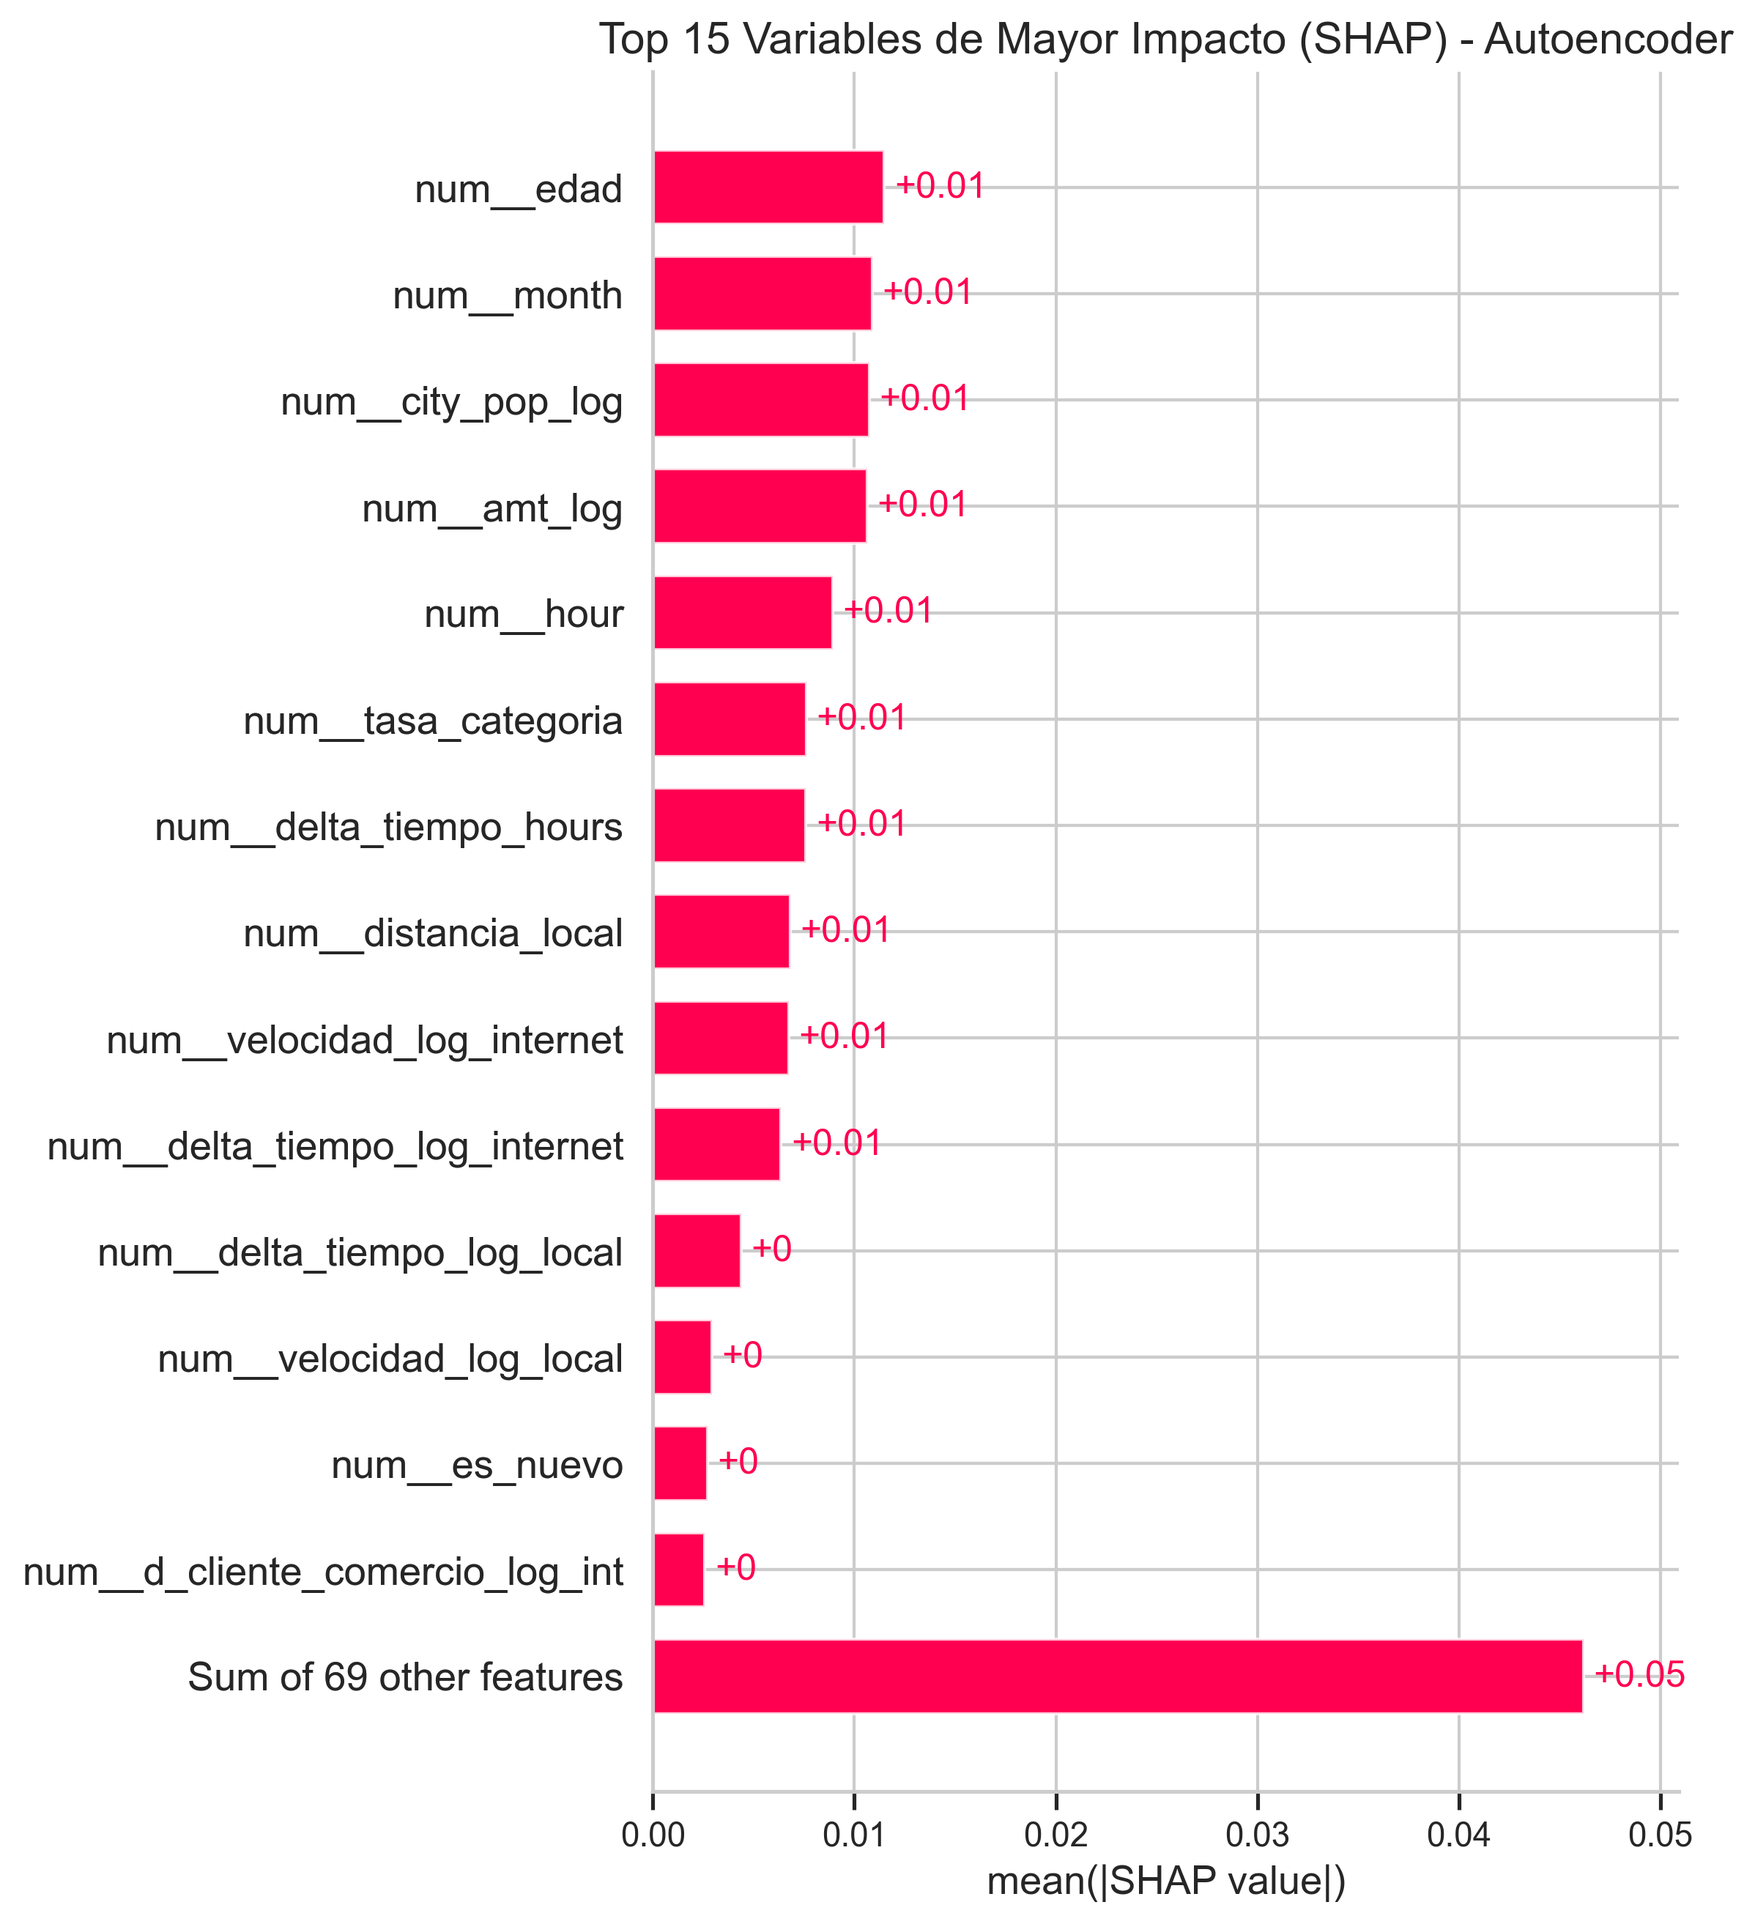
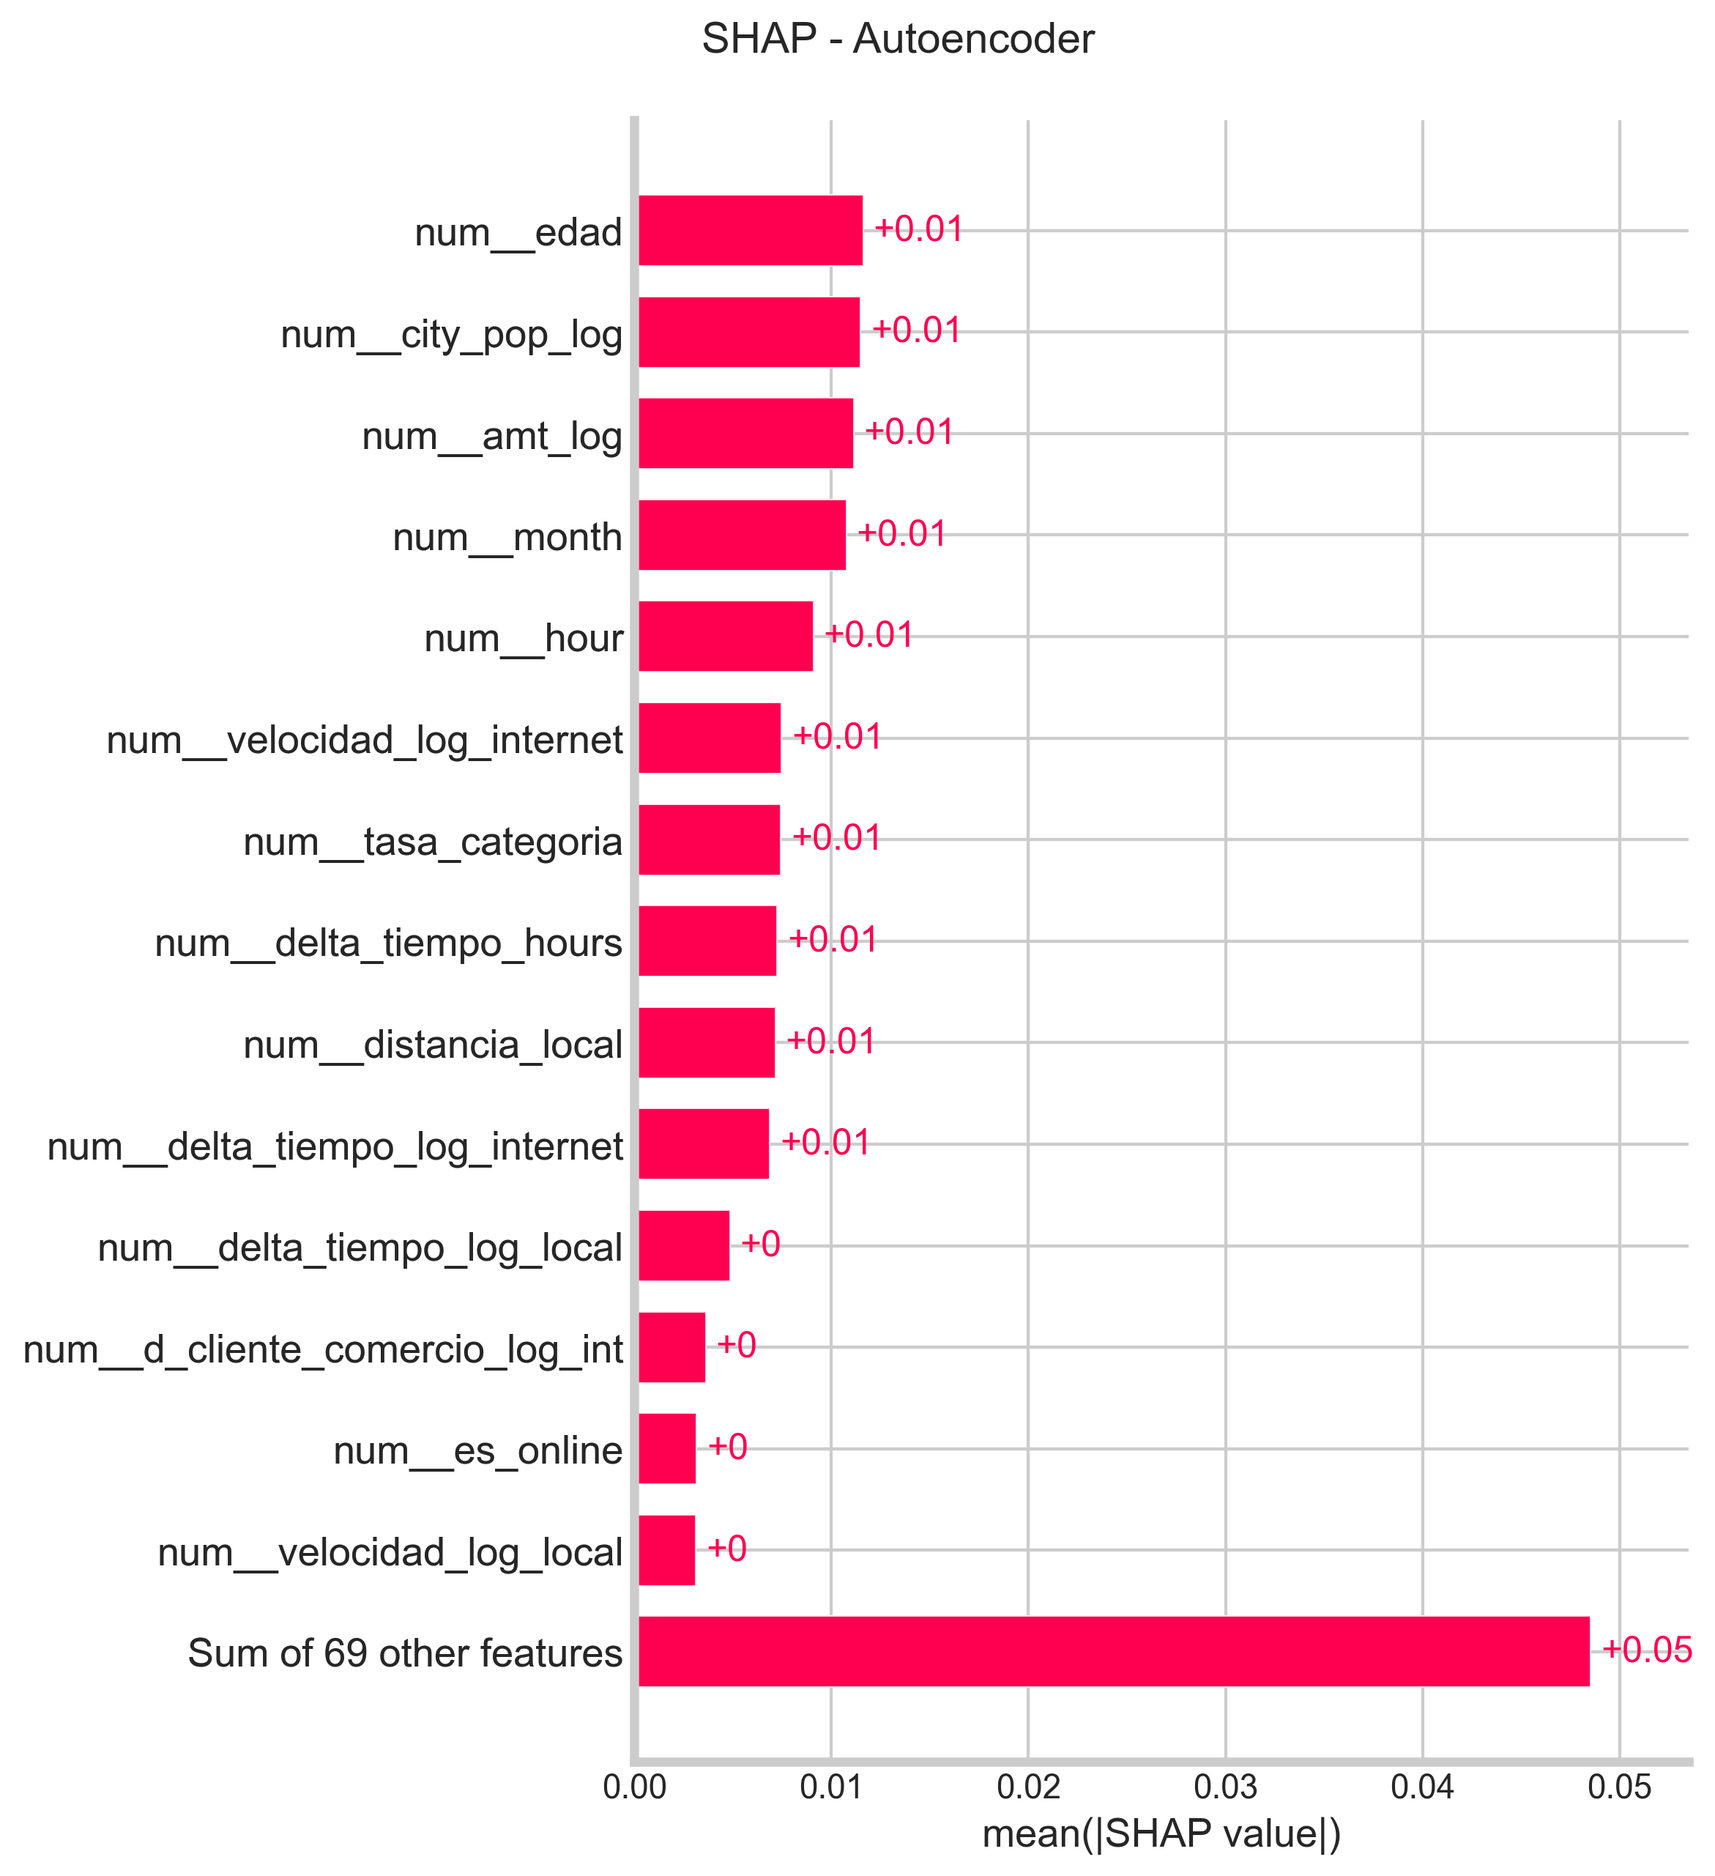
test de significancia

diff --git a/main.py b/main.py
@@ -1,5 +1,6 @@
 #Carga de funciones
 import gc
+
 from Subida_data import *
 from procesamiento_bases import *
 from EDA import *
@@ -137,13 +138,13 @@ for cat_var in cat_columns:
 
 #ANÁLISIS MULTIVARIADO
 
-boxplots_con_tabla(data, num_columns,target="is_fraud")
+#boxplots_con_tabla(data, num_columns,target="is_fraud")
 
-make_stacked_barplots(data, cat_columns, top=10)
-print("\n Matriz de correlación...")
-make_heat_map(data,num_columns)#multivariado
+#make_stacked_barplots(data, cat_columns, top=10)
+#print("\n Matriz de correlación...")
+#make_heat_map(data,num_columns)#multivariado
 
-graficar_temporalidad_fraude(data)
+#graficar_temporalidad_fraude(data)
 
 #print("\n" + "="*70)
 #print("EXPLORACIÓN PROFUNDA")
@@ -153,7 +154,7 @@ graficar_temporalidad_fraude(data)
 
 #make_scatter_plot(data,var_claves_num)#multivariado  #DA PROBLEMAS, LO ASOCIO A LA CANTIDAD DE OBSERVACIONES
 
-make_stacked_barplots(data, cat_columns, top=10)#multivariado #NO APORTA MUCHA INFORMACIÓN DADO EL DESBALANCE
+#make_stacked_barplots(data, cat_columns, top=10)#multivariado #NO APORTA MUCHA INFORMACIÓN DADO EL DESBALANCE
 
 
 # Creación de nuevas variables
@@ -415,11 +416,11 @@ num_nuevas=["delta_tiempo_log_local","delta_tiempo_log_internet","city_pop_log",
 cat_nueva=["es_nuevo","es_online","is_first_internet","is_first_local"]
 
 
-
+"""
 graficar_densidad(data,num_nuevas)
 for num_var in num_nuevas:
     make_boxplot(data,num_var)
-
+"""
 
 
 
@@ -767,19 +768,20 @@ df_umbrales = pd.DataFrame(resultados_umbrales)
 print("\n=== RESULTADOS DE OPTIMIZACIÓN DE UMBRALES ===")
 print(df_umbrales[['Modelo', 'Umbral_Optimo', 'F1_Score', 'FP', 'FN']])
 
-
+"""
 # --- FASE FINAL: INTERPRETABILIDAD COMPARATIVA ---
 nombres_columnas = preprocessor.get_feature_names_out()
 
-# Supervisados
-aplicar_shap_tesis_final(xgb_model_final, X_test_scaled, nombres_columnas, "XGBoost ")
-aplicar_shap_tesis_final(mlp_model, X_test_scaled, nombres_columnas, "MLP ", es_pytorch=True)
-aplicar_shap_tesis_final(logit_mod, X_test_scaled, nombres_columnas, "Regresión Logística")
-# No Supervisados / Anomalías
+# Modelos Supervisados
+aplicar_shap_tesis_final(xgb_model_final, X_test_scaled, nombres_columnas, "XGBoost")
+aplicar_shap_tesis_final(mlp_model, X_test_scaled, nombres_columnas, "MLP", es_pytorch=True)
+
+# CORREGIDO: Pasamos logit_res y activamos el flag de statsmodels
+aplicar_shap_tesis_final(logit_res, X_test_scaled, nombres_columnas, "Regresión Logística", es_statsmodels=True)
+
+# Modelos No Supervisados / Anomalías
 aplicar_shap_tesis_final(iso_forest, X_test_scaled, nombres_columnas, "Isolation Forest")
-
 aplicar_shap_tesis_final(ae_model, X_test_scaled, nombres_columnas, "Autoencoder", es_pytorch=True)
-
 # Ejecución de la interpretabilidad para LOF
 df_res_lofo = aplicar_lofo_tesis_final(
     X_train_scaled,
@@ -787,7 +789,7 @@ df_res_lofo = aplicar_lofo_tesis_final(
     nombres_columnas,
     nombre_modelo="LOF_Rango_20_50"
 )
-
+"""
 # --- EVALUACIÓN ECONÓMICA FINAL (TESIS) ---
 
 # 1. Cálculo de Frecuencia Dinámica con Suavizado (Smoothing)
@@ -871,7 +873,7 @@ print(df_final.to_string(index=False))
 # -------------------------------------------
 
 print("\n" + "="*60)
-print("📌 INICIANDO PRUEBA DE ROBUSTEZ INDEPENDIENTE: DICIEMBRE 2020")
+print(" INICIANDO PRUEBA DE ROBUSTEZ INDEPENDIENTE: DICIEMBRE 2020")
 print("="*60)
 
 # 1. Extracción y filtrado del universo exclusivo de diciembre de 2020
@@ -904,7 +906,7 @@ X_robust_tensor = torch.from_numpy(X_robust_scaled.copy()).float()
 # ------------------------------------------------------------------------------
 # PARTE A: EVALUACIÓN DE ROBUSTEZ TÉCNICA (Umbrales Fijos Obtenidos en Entrenamiento)
 # ------------------------------------------------------------------------------
-print("\n📈 [ROBUSTEZ TÉCNICA] Evaluación en Diciembre con Umbrales Previos:")
+print("\n [ROBUSTEZ TÉCNICA] Evaluación en Diciembre con Umbrales Previos:")
 
 resultados_robustez_tecnica = []
 
@@ -957,14 +959,14 @@ if 'ae_model' in locals():
 
 # Matriz resumen técnica del estrés temporal
 df_rob_tec = pd.DataFrame(resultados_robustez_tecnica)
-print("\n📊 [RESUMEN MATRICES - ROBUSTEZ DICIEMBRE 2020]:")
+print("\n [RESUMEN MATRICES - ROBUSTEZ DICIEMBRE 2020]:")
 print(df_rob_tec[['nombre', 'auc_roc', 'tp', 'fp', 'tn', 'fn']])
 
 
 # ------------------------------------------------------------------------------
 # PARTE B: EVALUACIÓN DE ROBUSTEZ FINANCIERA (Auditoría de Impacto Económico)
 # ------------------------------------------------------------------------------
-print("\n💰 [ROBUSTEZ FINANCIERA] Auditoría de Decisiones Estratégicas (F1 VS BAYES):")
+print("\n [ROBUSTEZ FINANCIERA] Auditoría de Decisiones Estratégicas (F1 VS BAYES):")
 
 info_modelos_robustez = {}
 if 'y_prob_logit_rob' in locals(): info_modelos_robustez['Regresión Logística'] = {'probabilidades': y_prob_logit_rob, 'umbral_f1': info_modelos['Regresión Logística']['umbral_f1']}
@@ -984,3 +986,62 @@ df_final_robustez = generar_matriz_comparativa_total(
 
 print(df_final_robustez.to_string(index=False))
 print("\n" + "="*60 + "\n")
+
+#-----------------------------------------------------
+#TEST DE ROBUSTEZ IMAN-DAVENPORT-->HOLM
+#-----------------------------------------------------
+print("\n" + "=" * 60)
+print("📊 GENERANDO MATRICES MENSUALES PARA IMAN-DAVENPORT")
+print("=" * 60)
+
+meses_test = test_df.loc[y_test.index, 'trans_date_trans_time'].dt.month.values
+meses_unicos = np.unique(meses_test)
+
+df_iman_auc = pd.DataFrame(index=[f"Mes_{m}" for m in meses_unicos])
+df_iman_ahorro = pd.DataFrame(index=[f"Mes_{m}" for m in meses_unicos])
+
+mult_lexis = 5.75
+costo_ca = 2.50
+
+for nombre_modelo, info in info_modelos.items():
+    lista_auc_mes = []
+    lista_ahorro_mes = []
+
+    for mes in meses_unicos:
+        mask = (meses_test == mes)
+
+        y_real_mes = y_test_values[mask]
+        amt_mes = amt_test_vector[mask]
+        clv_mes = clv_test_vector[mask]
+        y_prob_mes = info['probabilidades'][mask]
+
+        try:
+            auc_m = roc_auc_score(y_real_mes, y_prob_mes)
+        except:
+            auc_m = 0.5
+        lista_auc_mes.append(auc_m)
+
+        costo_fn_vector = amt_mes * mult_lexis
+        costo_fp_vector = costo_ca + clv_mes
+        costo_tp = costo_ca
+
+        thresholds_bayes = costo_fp_vector / (costo_fn_vector - costo_tp + costo_fp_vector)
+        y_pred_riesgo = (y_prob_mes > thresholds_bayes).astype(int)
+
+        tp = (y_real_mes == 1) & (y_pred_riesgo == 1)
+        fp = (y_real_mes == 0) & (y_pred_riesgo == 1)
+        fn = (y_real_mes == 1) & (y_pred_riesgo == 0)
+
+        costo_total = (tp.sum() * costo_tp) + (fp * costo_fp_vector).sum() + (fn * costo_fn_vector).sum()
+        costo_base = (y_real_mes * costo_fn_vector).sum()
+
+        ahorro_mes = costo_base - costo_total
+        lista_ahorro_mes.append(ahorro_mes)
+
+    df_iman_auc[nombre_modelo] = lista_auc_mes
+    df_iman_ahorro[nombre_modelo] = lista_ahorro_mes
+
+# LLAMADAS FINALES (Llamando a la función que ahora vive en estadisticas.py)
+ranks_auc, holm_auc = pipeline_iman_davenport_holm_puro(df_iman_auc, "AUC-ROC (Estructural)", buscar_maximo=True)
+ranks_ahorro, holm_ahorro = pipeline_iman_davenport_holm_puro(df_iman_ahorro, "Ahorro Financiero (Bayes)",
+                                                              buscar_maximo=True)

diff --git a/models.py b/models.py
@@ -3,6 +3,7 @@ import pandas as pd
 import numpy as np
 import torch.nn as nn
 from sklearn.linear_model import LogisticRegression
+import itertools
 from xgboost import XGBClassifier
 from sklearn.ensemble import IsolationForest
 from sklearn.neighbors import LocalOutlierFactor
@@ -11,6 +12,8 @@ import optuna
 from sklearn.model_selection import StratifiedKFold, cross_val_score
 import shap
 import matplotlib.pyplot as plt
+from sklearn.metrics import roc_auc_score
+from scipy.stats import f, rankdata, norm
 from sklearn.metrics import f1_score
 from torch.utils.data import DataLoader, TensorDataset
 import torch.nn.functional as F
@@ -163,7 +166,7 @@ def evaluar_modelo(nombre, y_real, y_prob, umbral=None):
 
 
 def aplicar_shap_tesis_final(model, X_data_numpy, feature_names, nombre_modelo="Modelo", es_pytorch=False,
-                             es_lof=False):
+                             es_lof=False, es_statsmodels=False):  # <--- Agregamos este parámetro nuevo
     print(f"\n" + "=" * 40)
     print(f"🧐 ANALIZANDO INTERPRETABILIDAD: {nombre_modelo}")
     print("=" * 40)
@@ -188,6 +191,16 @@ def aplicar_shap_tesis_final(model, X_data_numpy, feature_names, nombre_modelo="
             masker = shap.maskers.Independent(X_data_numpy, max_samples=100)
             explainer = shap.Explainer(predict_fn_torch, masker)
             shap_values = explainer(X_sample_np)
+
+        elif es_statsmodels:
+            def predict_fn_logit(x_np):
+                x_stat = np.column_stack([np.ones(x_np.shape[0]), x_np])
+                return model.predict(x_stat)
+
+            masker = shap.maskers.Independent(X_data_numpy, max_samples=100)
+            explainer = shap.Explainer(predict_fn_logit, masker)
+            shap_values = explainer(X_sample_np)
+
         elif es_lof:
             def predict_fn_lof(x_np):
                 return -model.score_samples(x_np)
@@ -208,31 +221,34 @@ def aplicar_shap_tesis_final(model, X_data_numpy, feature_names, nombre_modelo="
         else:
             vals = np.abs(shap_values).mean(0)
 
-        # Crear DataFrame con el 100% de las variables
+
         df_total = pd.DataFrame(list(zip(feature_names, vals)), columns=['Variable', 'Impacto_Medio_SHAP'])
         df_total = df_total.sort_values(by='Impacto_Medio_SHAP', ascending=False)
 
         print(f"\n📋 IMPACTO TOTAL DE VARIABLES (Orden descendente) - {nombre_modelo}:")
-        pd.set_option('display.max_rows', None)  # Para que PyCharm no esconda filas
+        pd.set_option('display.max_rows', None)
         print(df_total.to_string(index=False))
         pd.reset_option('display.max_rows')
 
-        # --- GENERACIÓN DEL GRÁFICO (SOLO TOP 15) ---
-        plt.figure(figsize=(12, 8),facecolor="white")
-        # Asignamos los nombres para el gráfico
+        # --- GENERACIÓN DEL GRÁFICO (SOLO TOP 15 CON CORRECCIÓN DE ALTURA) ---
+        plt.figure(figsize=(10, 11), facecolor="white")
         if hasattr(shap_values, "values"):
             shap_values.feature_names = list(feature_names)
 
-        # max_display=15 hace la magia de limpiar el gráfico automáticamente
         if hasattr(shap_values, "values") and len(shap_values.values.shape) == 3:
             shap.plots.bar(shap_values[:, :, 1], show=False, max_display=15)
         else:
             shap.plots.bar(shap_values, show=False, max_display=15)
+
         ax = plt.gca()
         ax.set_facecolor('white')
 
-        plt.title(f"Top 15 Variables de Mayor Impacto (SHAP) - {nombre_modelo}")
-        plt.tight_layout()
+
+        plt.subplots_adjust(left=0.35, top=0.90)
+
+
+        plt.gcf().suptitle(f"SHAP - {nombre_modelo}", fontsize=14, y=0.95)
+
         plt.savefig(
             f"shap_top15_{nombre_modelo.lower().replace(' ', '_')}.png",
             dpi=300,
@@ -433,3 +449,92 @@ def generar_matriz_comparativa_total(modelos_data, y_real, amt_test, clv_vector,
 
     return pd.DataFrame(comparativa)
 
+
+# ==============================================================================
+# 2. ALGORITMO CORE: TEST DE IMAN-DAVENPORT--HOML
+# ==============================================================================
+def pipeline_iman_davenport_holm_puro(df_performance, metrica_nombre, buscar_maximo=True):
+
+    matrix = df_performance.to_numpy()
+    N, k = matrix.shape
+    alpha_global = 0.05
+
+    print("\n" + "=" * 75)
+    print(f"🔬 PIPELINE ESTADÍSTICO PURO: {metrica_nombre.upper()}")
+    print("=" * 75)
+
+    if buscar_maximo:
+        rangos = np.array([rankdata(-row) for row in matrix])
+    else:
+        rangos = np.array([rankdata(row) for row in matrix])
+
+    promedio_rangos = np.mean(rangos, axis=0)
+
+    sum_cuadrados_rangos = np.sum(promedio_rangos ** 2)
+    estadistico_friedman = (12 * N / (k * (k + 1))) * (sum_cuadrados_rangos - (k * (k + 1) ** 2 / 4))
+
+    numerador = (N - 1) * estadistico_friedman
+    denominador = N * (k - 1) - estadistico_friedman
+    estadistico_iman = numerador / denominador
+
+    df1 = k - 1
+    df2 = (k - 1) * (N - 1)
+    p_valor_global = f.sf(estadistico_iman, df1, df2)
+
+    dict_rangos = {df_performance.columns[i]: promedio_rangos[i] for i in range(k)}
+    df_ranks = pd.DataFrame(list(dict_rangos.items()), columns=['Modelo', 'Rango_Promedio']).sort_values(
+        by='Rango_Promedio')
+
+    print(f"\n[TEST GLOBAL - IMAN-DAVENPORT]")
+    print(f"• Estadístico F: {estadistico_iman:.4f}")
+    print(f"• Grados de Libertad: ({df1}, {df2})")
+    print(f"• p-valor Global: {p_valor_global:.6e}")
+    print("\nRanking de Rangos Promedios:")
+    print(df_ranks.to_string(index=False))
+
+    if p_valor_global >= alpha_global:
+        print(f"\nConclusión: No se rechaza H0. No hay diferencias significativas.")
+        return df_ranks, None
+
+    print(f"\nConclusión: Rechazamos H0 (p < {alpha_global}). Existen diferencias significativas.")
+    print(f"\n[TEST POST-HOC - HOLM BASADO EN DISTANCIA DE RANGOS]")
+
+    modelos = df_performance.columns.tolist()
+    parejas = list(itertools.combinations(range(k), 2))
+
+    error_estandar = np.sqrt((k * (k + 1)) / (6 * N))
+    resultados_parejas = []
+
+    for i, j in parejas:
+        mod1_name = modelos[i]
+        mod2_name = modelos[j]
+
+        z_val = abs(promedio_rangos[i] - promedio_rangos[j]) / error_estandar
+        p_val_base = 2 * (1 - norm.cdf(z_val))
+
+        resultados_parejas.append({
+            'Comparación': f"{mod1_name} vs {mod2_name}",
+            'p_val_original': p_val_base
+        })
+
+    df_holm = pd.DataFrame(resultados_parejas)
+    df_holm = df_holm.sort_values(by='p_val_original').reset_index(drop=True)
+
+    m = len(df_holm)
+    p_valores_corregidos = []
+
+    for idx, row in df_holm.iterrows():
+        p_corregido = row['p_val_original'] * (m - idx)
+        p_corregido = min(p_corregido, 1.0)
+
+        if idx > 0:
+            p_corregido = max(p_corregido, p_valores_corregidos[-1])
+
+        p_valores_corregidos.append(p_corregido)
+
+    df_holm['p_val_Holm'] = p_valores_corregidos
+    df_holm['Diferencia_Significativa'] = df_holm['p_val_Holm'] < alpha_global
+
+    print(df_holm[['Comparación', 'p_val_original', 'p_val_Holm', 'Diferencia_Significativa']].to_string(index=False))
+
+    return df_ranks, df_holm
